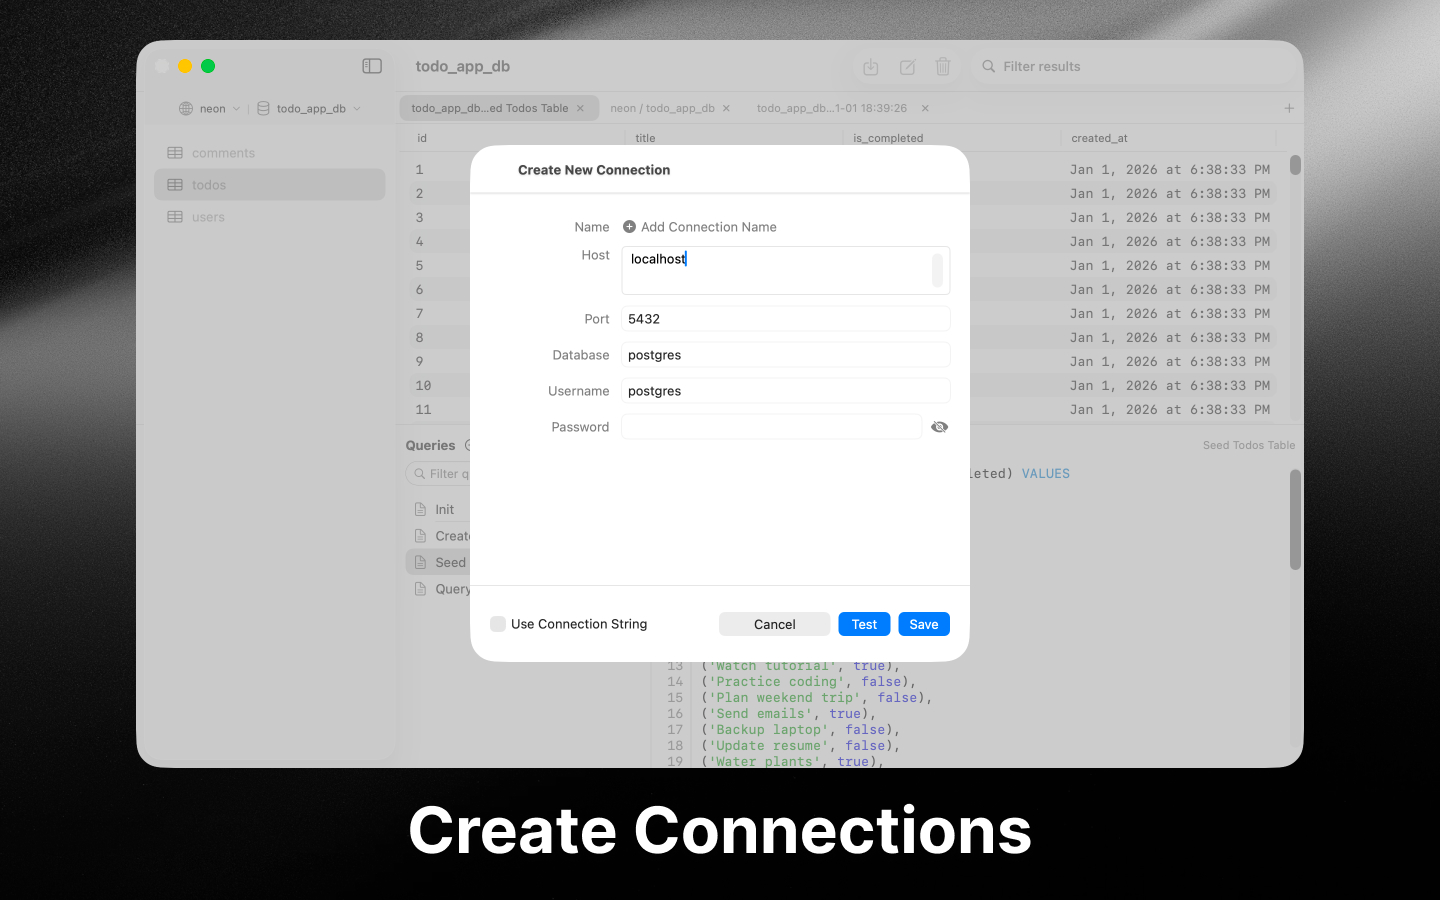
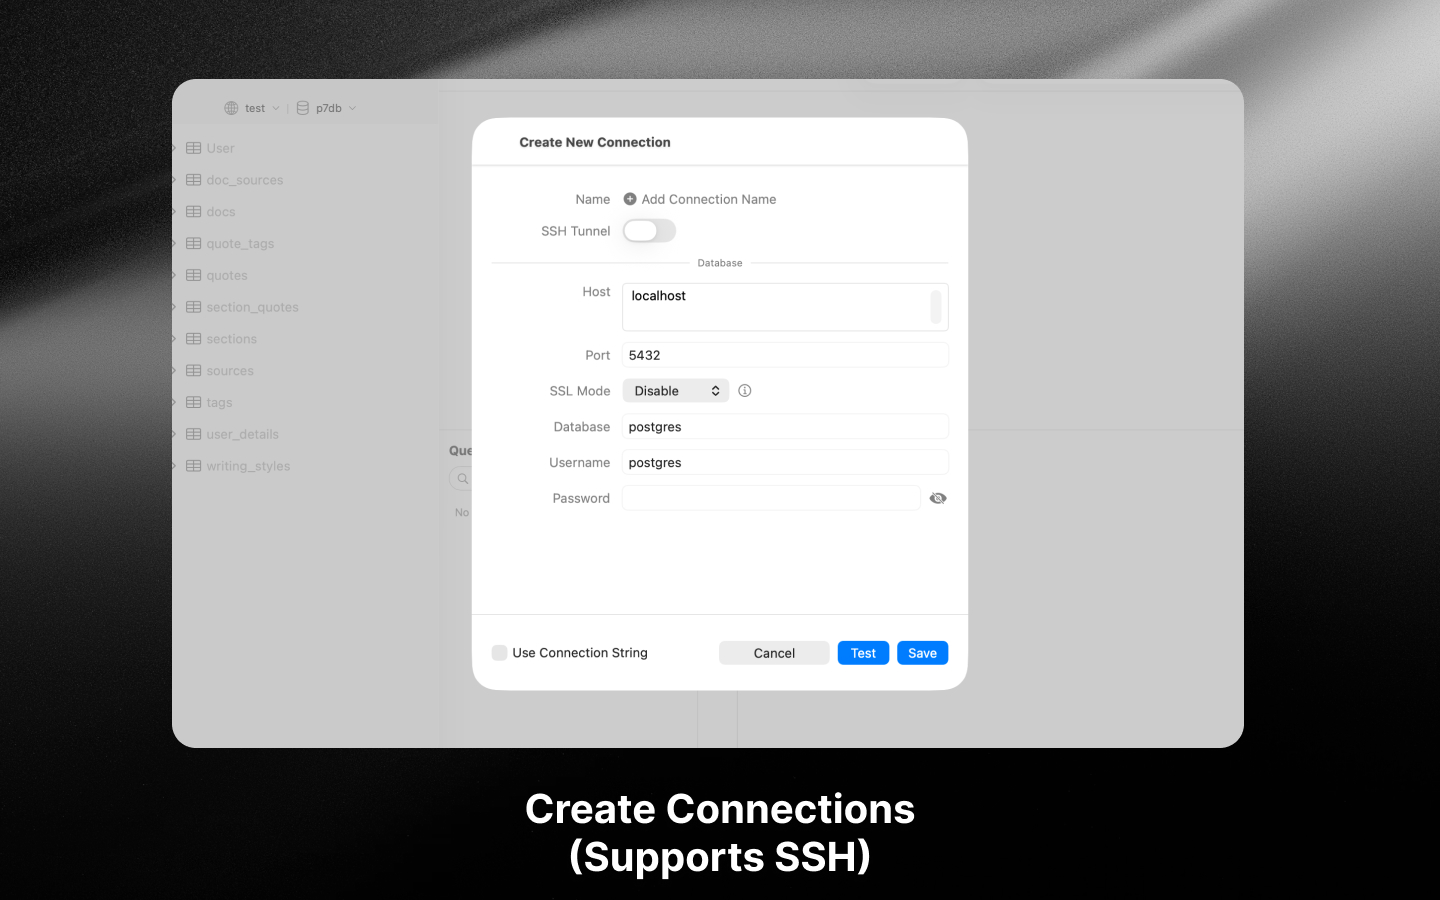
SSH

diff --git a/src/app/page.tsx b/src/app/page.tsx
@@ -66,7 +66,7 @@ const features = [
     pattern: featurePattern,
   },
   {
-    desc: "Add your local dev database, a staging server, and production — all in one place. Connections are saved securely and ready to go whenever you open the app.",
+    desc: "Add your local dev database, a staging server over SSH, and production — all in one place. Connections are saved securely and ready to go whenever you open the app.",
     screenshot: screenshots.connections,
     alt: "Database connections manager with multiple servers",
     pattern: featurePattern,
